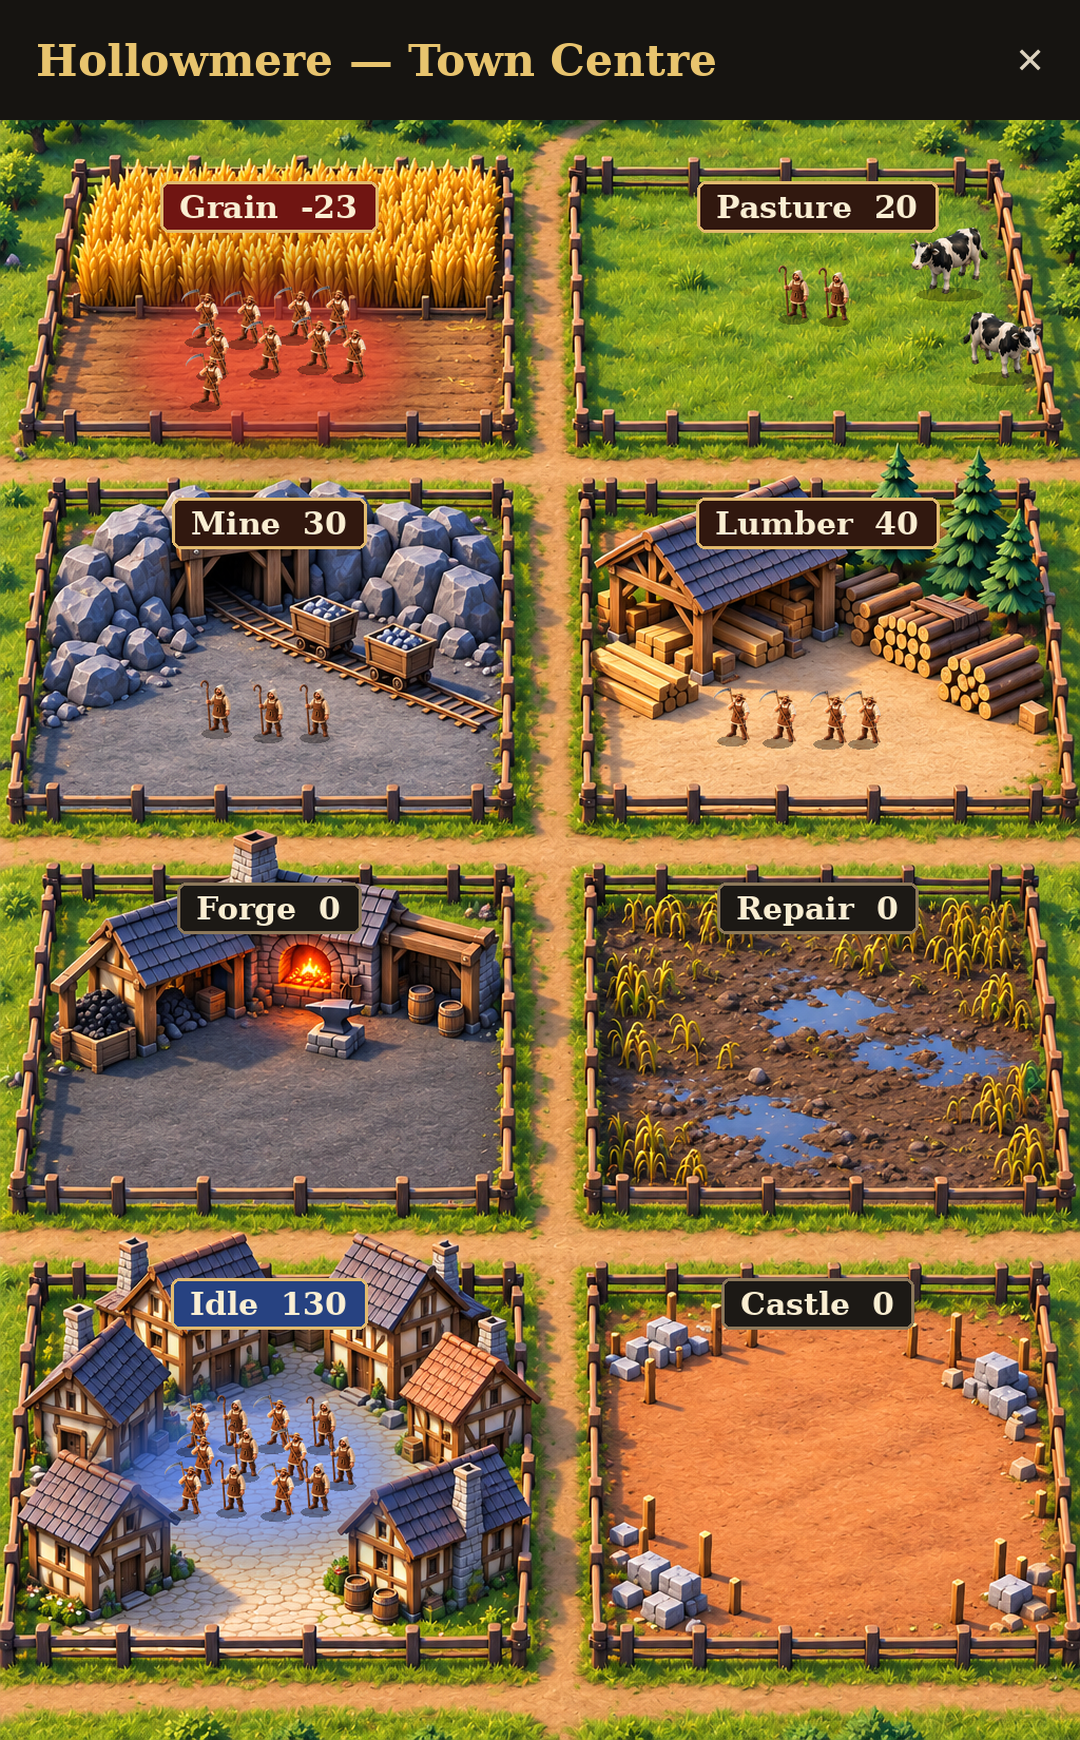
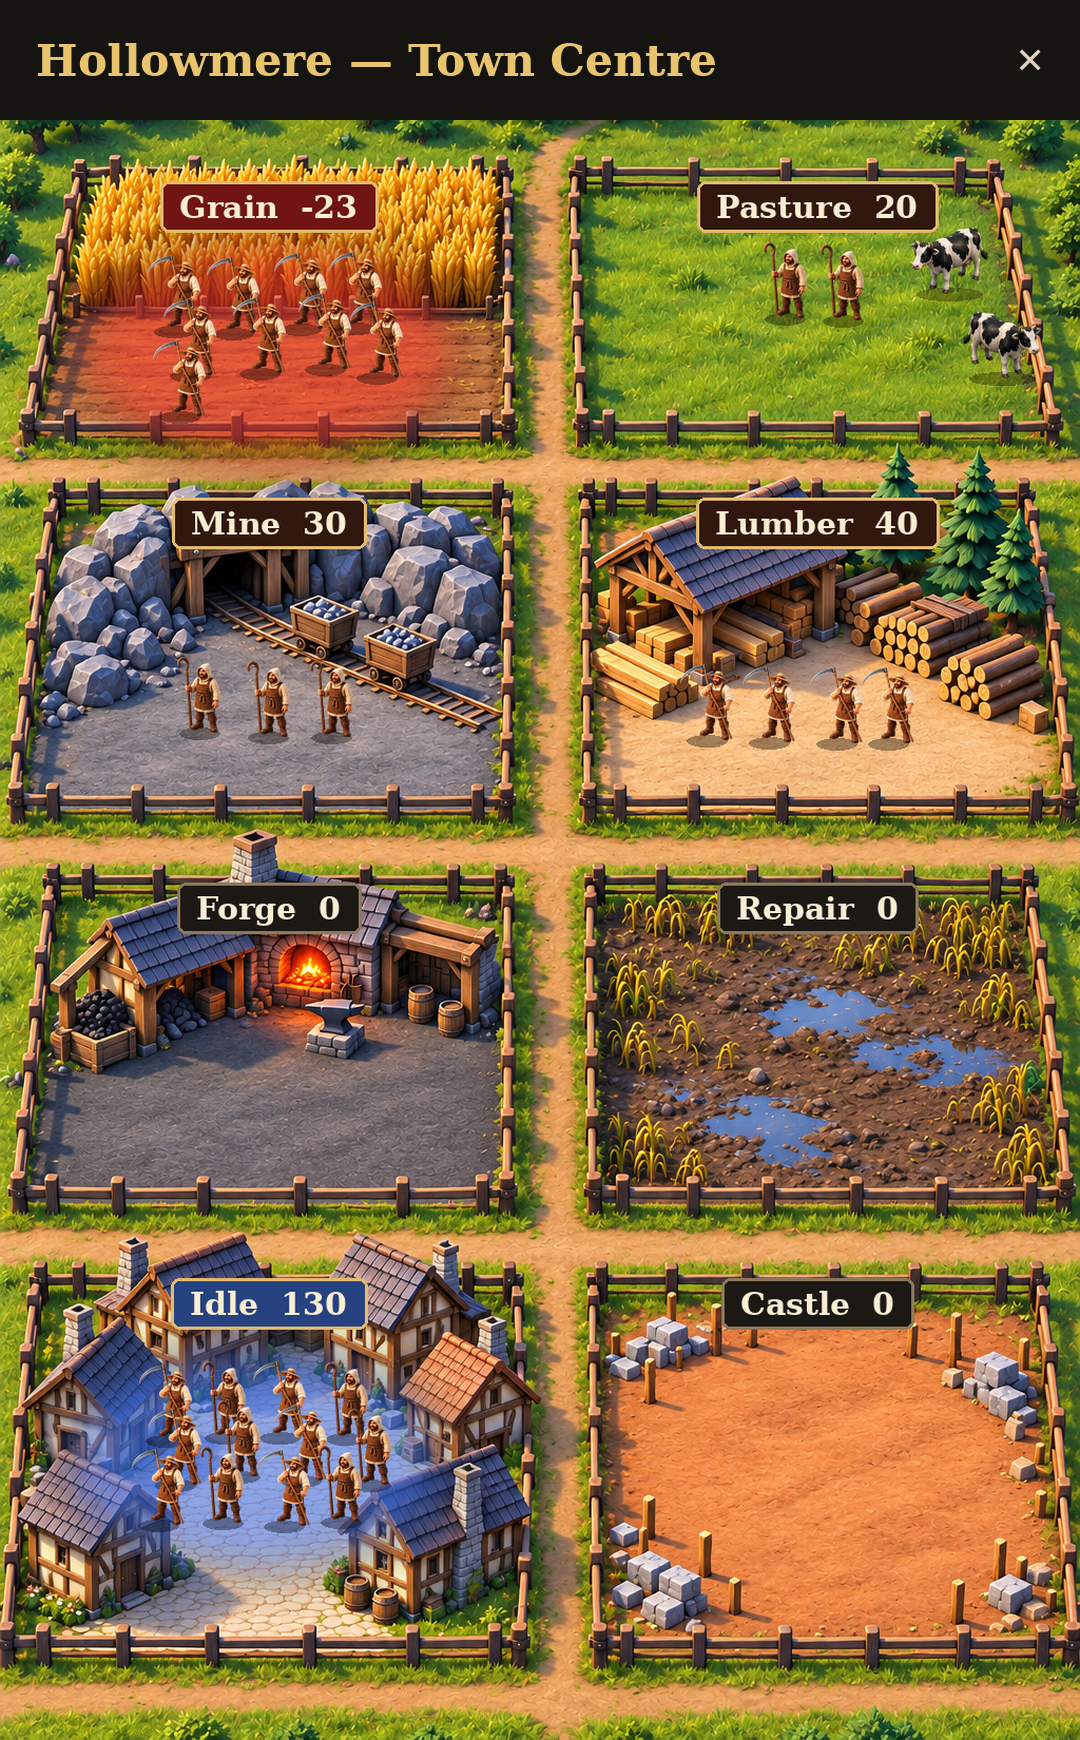
Labor screen mock-up: laborers 50 -> 72 px tall, wider spacing
Claude-Session: https://claude.ai/code/session_01Si7yCYtaRkU66udtrNvA8s

diff --git a/tools/labor_overlay.py b/tools/labor_overlay.py
@@ -27,7 +27,7 @@ ZONES = {
     'Idle':    ((20, 1080, 490, 1460), (240, 1290), 130, 0, 'mixed'),
     'Castle':  ((545, 1080, 1005, 1460), (775, 1270), 0, 0, 'farmer'),
 }
-FIG_H = 50
+FIG_H = 72
 COW_W = 74
 # two cows tucked in the pasture's right corner (Chris, Oct 18: "like two in the corner")
 COWS = [(900, 165), (950, 245)]
@@ -59,19 +59,19 @@ def main(src, out):
         cols = min(k, 4) or 1
         rows = math.ceil(k / cols) if k else 0
         if short or name == 'Idle':
-            glow(base, (cx, cy - 10), 40 + cols * 26, 30 + rows * 18,
+            glow(base, (cx, cy - 20), 50 + cols * 34, 40 + rows * 24,
                  (230, 50, 40) if short else (60, 120, 255))
         spots = []
         for i in range(k):
             r, c = divmod(i, cols)
-            x = cx + (c - (cols - 1) / 2) * 42 + random.randint(-6, 6) + (r % 2) * 14
-            y = cy + (r - (rows - 1) / 2) * 30 + random.randint(-4, 4)
+            x = cx + (c - (cols - 1) / 2) * 58 + random.randint(-6, 6) + (r % 2) * 18
+            y = cy + (r - (rows - 1) / 2) * 40 + random.randint(-4, 4)
             spots.append((x, y, i))
         for x, y, i in sorted(spots, key=lambda t: t[1]):
             kk = kind if kind != 'mixed' else ('farmer', 'herder')[i % 2]
             im = figs[kk]
             sh = Image.new('RGBA', base.size, (0, 0, 0, 0))
-            ImageDraw.Draw(sh).ellipse((x - 14, y - 4, x + 14, y + 5), fill=(0, 0, 0, 90))
+            ImageDraw.Draw(sh).ellipse((x - 19, y - 5, x + 19, y + 6), fill=(0, 0, 0, 90))  # foot shadow
             base.alpha_composite(sh)
             base.alpha_composite(im, (round(x - im.width / 2), round(y - im.height)))
         if name == 'Pasture':
